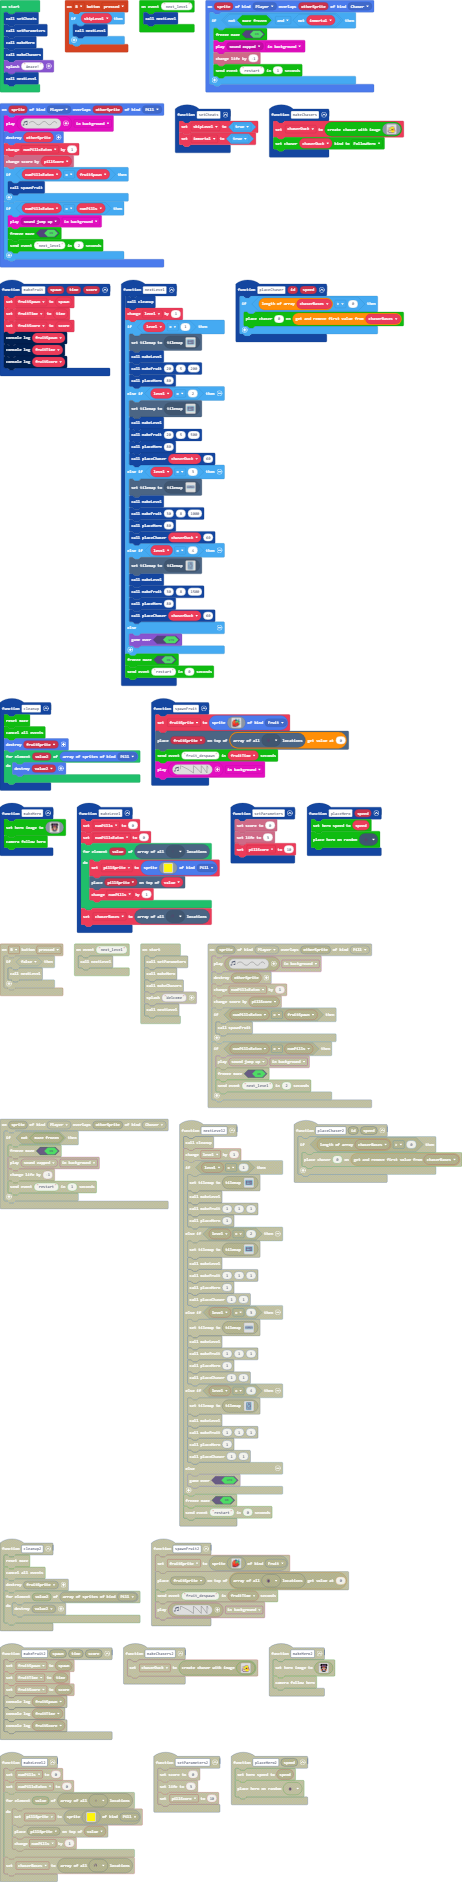
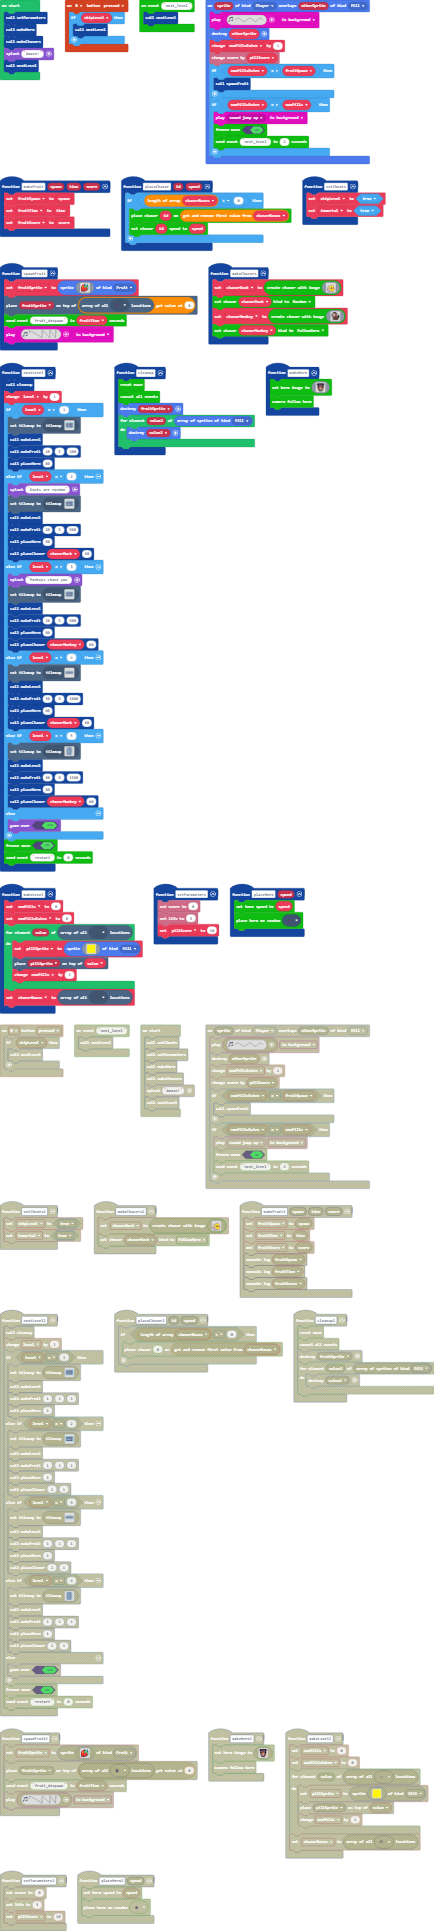
Ducks are random, monkeys chase

diff --git a/tilemap.g.ts b/tilemap.g.ts
@@ -451,6 +451,120 @@ namespace myTiles {
 . . . . . . . . . . . . . . . . 
 . . . . . . . . . . . . . . . . 
 `, [myTiles.transparency16], TileScale.Sixteen);
+            case "level25":
+            case "level25":return tiles.createTilemap(hex`1000100000000000000000000000000000000000000000000000000000000000000000000000000000000000000000000000000000000000000000000000000000000000000000000000000000000000000000000000000000000000000000000000000000000000000000000000000000000000000000000000000000000000000000000000000000000000000000000000000000000000000000000000000000000000000000000000000000000000000000000000000000000000000000000000000000000000000000000000000000000000000000000000000000000000000000000000000000000000000000000000000000000000000000000000000000000000`, img`
+. . . . . . . . . . . . . . . . 
+. . . . . . . . . . . . . . . . 
+. . . . . . . . . . . . . . . . 
+. . . . . . . . . . . . . . . . 
+. . . . . . . . . . . . . . . . 
+. . . . . . . . . . . . . . . . 
+. . . . . . . . . . . . . . . . 
+. . . . . . . . . . . . . . . . 
+. . . . . . . . . . . . . . . . 
+. . . . . . . . . . . . . . . . 
+. . . . . . . . . . . . . . . . 
+. . . . . . . . . . . . . . . . 
+. . . . . . . . . . . . . . . . 
+. . . . . . . . . . . . . . . . 
+. . . . . . . . . . . . . . . . 
+. . . . . . . . . . . . . . . . 
+`, [myTiles.transparency16], TileScale.Sixteen);
+            case "level26":
+            case "level26":return tiles.createTilemap(hex`1000100000000000000000000000000000000000000000000000000000000000000000000000000000000000000000000000000000000000000000000000000000000000000000000000000000000000000000000000000000000000000000000000000000000000000000000000000000000000000000000000000000000000000000000000000000000000000000000000000000000000000000000000000000000000000000000000000000000000000000000000000000000000000000000000000000000000000000000000000000000000000000000000000000000000000000000000000000000000000000000000000000000000000000000000000000000000`, img`
+. . . . . . . . . . . . . . . . 
+. . . . . . . . . . . . . . . . 
+. . . . . . . . . . . . . . . . 
+. . . . . . . . . . . . . . . . 
+. . . . . . . . . . . . . . . . 
+. . . . . . . . . . . . . . . . 
+. . . . . . . . . . . . . . . . 
+. . . . . . . . . . . . . . . . 
+. . . . . . . . . . . . . . . . 
+. . . . . . . . . . . . . . . . 
+. . . . . . . . . . . . . . . . 
+. . . . . . . . . . . . . . . . 
+. . . . . . . . . . . . . . . . 
+. . . . . . . . . . . . . . . . 
+. . . . . . . . . . . . . . . . 
+. . . . . . . . . . . . . . . . 
+`, [myTiles.transparency16], TileScale.Sixteen);
+            case "level27":
+            case "level27":return tiles.createTilemap(hex`1000100000000000000000000000000000000000000000000000000000000000000000000000000000000000000000000000000000000000000000000000000000000000000000000000000000000000000000000000000000000000000000000000000000000000000000000000000000000000000000000000000000000000000000000000000000000000000000000000000000000000000000000000000000000000000000000000000000000000000000000000000000000000000000000000000000000000000000000000000000000000000000000000000000000000000000000000000000000000000000000000000000000000000000000000000000000000`, img`
+. . . . . . . . . . . . . . . . 
+. . . . . . . . . . . . . . . . 
+. . . . . . . . . . . . . . . . 
+. . . . . . . . . . . . . . . . 
+. . . . . . . . . . . . . . . . 
+. . . . . . . . . . . . . . . . 
+. . . . . . . . . . . . . . . . 
+. . . . . . . . . . . . . . . . 
+. . . . . . . . . . . . . . . . 
+. . . . . . . . . . . . . . . . 
+. . . . . . . . . . . . . . . . 
+. . . . . . . . . . . . . . . . 
+. . . . . . . . . . . . . . . . 
+. . . . . . . . . . . . . . . . 
+. . . . . . . . . . . . . . . . 
+. . . . . . . . . . . . . . . . 
+`, [myTiles.transparency16], TileScale.Sixteen);
+            case "level28":
+            case "level28":return tiles.createTilemap(hex`1000100000000000000000000000000000000000000000000000000000000000000000000000000000000000000000000000000000000000000000000000000000000000000000000000000000000000000000000000000000000000000000000000000000000000000000000000000000000000000000000000000000000000000000000000000000000000000000000000000000000000000000000000000000000000000000000000000000000000000000000000000000000000000000000000000000000000000000000000000000000000000000000000000000000000000000000000000000000000000000000000000000000000000000000000000000000000`, img`
+. . . . . . . . . . . . . . . . 
+. . . . . . . . . . . . . . . . 
+. . . . . . . . . . . . . . . . 
+. . . . . . . . . . . . . . . . 
+. . . . . . . . . . . . . . . . 
+. . . . . . . . . . . . . . . . 
+. . . . . . . . . . . . . . . . 
+. . . . . . . . . . . . . . . . 
+. . . . . . . . . . . . . . . . 
+. . . . . . . . . . . . . . . . 
+. . . . . . . . . . . . . . . . 
+. . . . . . . . . . . . . . . . 
+. . . . . . . . . . . . . . . . 
+. . . . . . . . . . . . . . . . 
+. . . . . . . . . . . . . . . . 
+. . . . . . . . . . . . . . . . 
+`, [myTiles.transparency16], TileScale.Sixteen);
+            case "level29":
+            case "level29":return tiles.createTilemap(hex`1000100000000000000000000000000000000000000000000000000000000000000000000000000000000000000000000000000000000000000000000000000000000000000000000000000000000000000000000000000000000000000000000000000000000000000000000000000000000000000000000000000000000000000000000000000000000000000000000000000000000000000000000000000000000000000000000000000000000000000000000000000000000000000000000000000000000000000000000000000000000000000000000000000000000000000000000000000000000000000000000000000000000000000000000000000000000000`, img`
+. . . . . . . . . . . . . . . . 
+. . . . . . . . . . . . . . . . 
+. . . . . . . . . . . . . . . . 
+. . . . . . . . . . . . . . . . 
+. . . . . . . . . . . . . . . . 
+. . . . . . . . . . . . . . . . 
+. . . . . . . . . . . . . . . . 
+. . . . . . . . . . . . . . . . 
+. . . . . . . . . . . . . . . . 
+. . . . . . . . . . . . . . . . 
+. . . . . . . . . . . . . . . . 
+. . . . . . . . . . . . . . . . 
+. . . . . . . . . . . . . . . . 
+. . . . . . . . . . . . . . . . 
+. . . . . . . . . . . . . . . . 
+. . . . . . . . . . . . . . . . 
+`, [myTiles.transparency16], TileScale.Sixteen);
+            case "level30":
+            case "level30":return tiles.createTilemap(hex`1000100000000000000000000000000000000000000000000000000000000000000000000000000000000000000000000000000000000000000000000000000000000000000000000000000000000000000000000000000000000000000000000000000000000000000000000000000000000000000000000000000000000000000000000000000000000000000000000000000000000000000000000000000000000000000000000000000000000000000000000000000000000000000000000000000000000000000000000000000000000000000000000000000000000000000000000000000000000000000000000000000000000000000000000000000000000000`, img`
+. . . . . . . . . . . . . . . . 
+. . . . . . . . . . . . . . . . 
+. . . . . . . . . . . . . . . . 
+. . . . . . . . . . . . . . . . 
+. . . . . . . . . . . . . . . . 
+. . . . . . . . . . . . . . . . 
+. . . . . . . . . . . . . . . . 
+. . . . . . . . . . . . . . . . 
+. . . . . . . . . . . . . . . . 
+. . . . . . . . . . . . . . . . 
+. . . . . . . . . . . . . . . . 
+. . . . . . . . . . . . . . . . 
+. . . . . . . . . . . . . . . . 
+. . . . . . . . . . . . . . . . 
+. . . . . . . . . . . . . . . . 
+. . . . . . . . . . . . . . . . 
+`, [myTiles.transparency16], TileScale.Sixteen);
         }
         return null;
     })

diff --git a/main.ts b/main.ts
@@ -100,11 +100,31 @@ function makeChasers () {
         . . c b d d d d d 5 5 5 b b . . 
         . . . c c c c c c c c b b . . . 
         `)
-    maze.setChaserKind(chaserDuck, maze.ChaserKind.FollowHero)
+    maze.setChaserKind(chaserDuck, maze.ChaserKind.Random)
+    chaserMonkey = maze.createChaser(img`
+        . . . . f f f f f . . . . . . . 
+        . . . f e e e e e f . . . . . . 
+        . . f d d d d e e e f . . . . . 
+        . c d f d d f d e e f f . . . . 
+        . c d f d d f d e e d d f . . . 
+        c d e e d d d d e e b d c . . . 
+        c d d d d c d d e e b d c . f f 
+        c c c c c d d d e e f c . f e f 
+        . f d d d d d e e f f . . f e f 
+        . . f f f f f e e e e f . f e f 
+        . . . . f e e e e e e e f f e f 
+        . . . f e f f e f e e e e f f . 
+        . . . f e f f e f e e e e f . . 
+        . . . f d b f d b f f e f . . . 
+        . . . f d d c d d b b d f . . . 
+        . . . . f f f f f f f f f . . . 
+        `)
+    maze.setChaserKind(chaserMonkey, maze.ChaserKind.FollowHero)
 }
 function placeChaser (id: number, speed: number) {
     if (chaserBases.length > 0) {
-        maze.placeChaser(0, chaserBases.shift())
+        maze.placeChaser(id, chaserBases.shift())
+        maze.setChaserSpeed(id, speed)
     }
 }
 function cleanup () {
@@ -119,9 +139,6 @@ function makeFruit (spawn: number, time: number, score: number) {
     fruitSpawn = spawn
     fruitTime = time
     fruitScore = score
-    console.log(fruitSpawn)
-    console.log(fruitTime)
-    console.log(fruitScore)
 }
 maze.onEvent("restart", function () {
     maze.restart()
@@ -136,23 +153,31 @@ function nextLevel () {
         makeFruit(20, 5, 200)
         placeHero(80)
     } else if (level == 2) {
+        game.splash("Ducks are random")
         tiles.setCurrentTilemap(tilemap`level1`)
         makeLevel()
         makeFruit(20, 5, 500)
         placeHero(80)
         placeChaser(chaserDuck, 60)
     } else if (level == 3) {
+        game.splash("Monkeys chase you")
+        tiles.setCurrentTilemap(tilemap`level1`)
+        makeLevel()
+        makeFruit(20, 5, 500)
+        placeHero(80)
+        placeChaser(chaserMonkey, 60)
+    } else if (level == 4) {
         tiles.setCurrentTilemap(tilemap`level10`)
         makeLevel()
         makeFruit(30, 8, 1000)
         placeHero(80)
         placeChaser(chaserDuck, 60)
-    } else if (level == 4) {
+    } else if (level == 5) {
         tiles.setCurrentTilemap(tilemap`level7`)
         makeLevel()
         makeFruit(30, 8, 1500)
         placeHero(80)
-        placeChaser(chaserDuck, 60)
+        placeChaser(chaserMonkey, 60)
     } else {
         game.gameOver(true)
     }
@@ -193,6 +218,7 @@ function placeHero (speed: number) {
 }
 let level = 0
 let fruitSpawn = 0
+let chaserMonkey = 0
 let chaserDuck = 0
 let fruitScore = 0
 let fruitTime = 0
@@ -204,7 +230,6 @@ let numPills = 0
 let skipLevel = false
 let immortal = false
 let pillScore = 0
-setCheats()
 setParameters()
 makeHero()
 makeChasers()

diff --git a/maze_mover.ts b/maze_mover.ts
@@ -11,6 +11,7 @@ namespace maze {
         _direction: Direction
         _request: Direction
         _speed: number
+        _show: boolean
         _frozen: boolean
         _changedTile: boolean
         _startLocation: tiles.Location
@@ -26,6 +27,7 @@ namespace maze {
             this._direction = Direction.None
             this._request = Direction.None
             this._speed = 50
+            this._show = false
             this._frozen = false
             this._changedTile = false
         }
@@ -48,7 +50,9 @@ namespace maze {
         }
 
         restart() {
-            this.placeOnTile(this._startLocation)
+            if (this._show) {
+                this.placeOnTile(this._startLocation)
+            }
         }
 
         placeOnImage(img: Image) {
@@ -77,6 +81,7 @@ namespace maze {
         }
 
         show(on: boolean) {
+            this._show = on
             if (this._sprite) {
                 this._sprite.setFlag(SpriteFlag.Ghost, !on)
                 this._sprite.setFlag(SpriteFlag.Invisible, !on)
@@ -196,7 +201,7 @@ namespace maze {
         }
 
         isReady() : boolean {
-            return (this._sprite && !this._frozen)
+            return (this._sprite && this._show && !this._frozen)
         }
 
         public canMove(dir: Direction): boolean {
